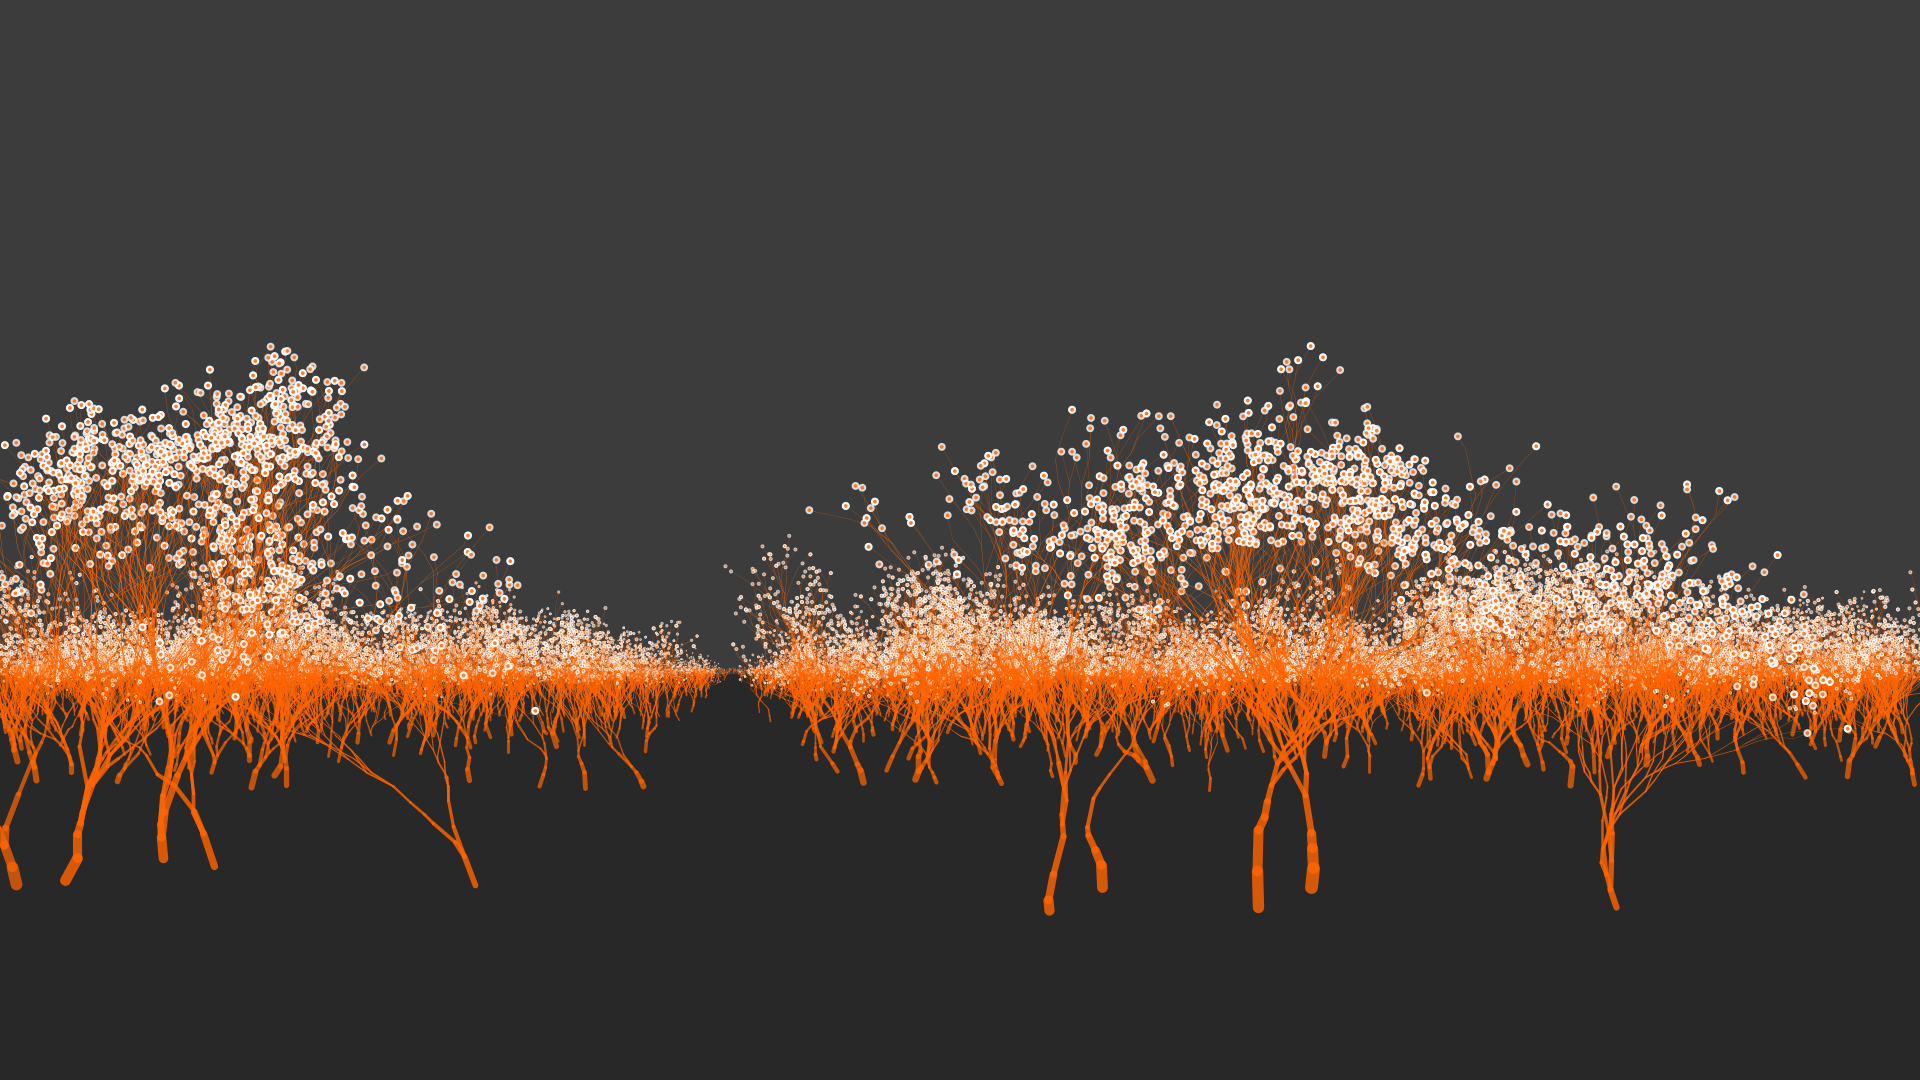
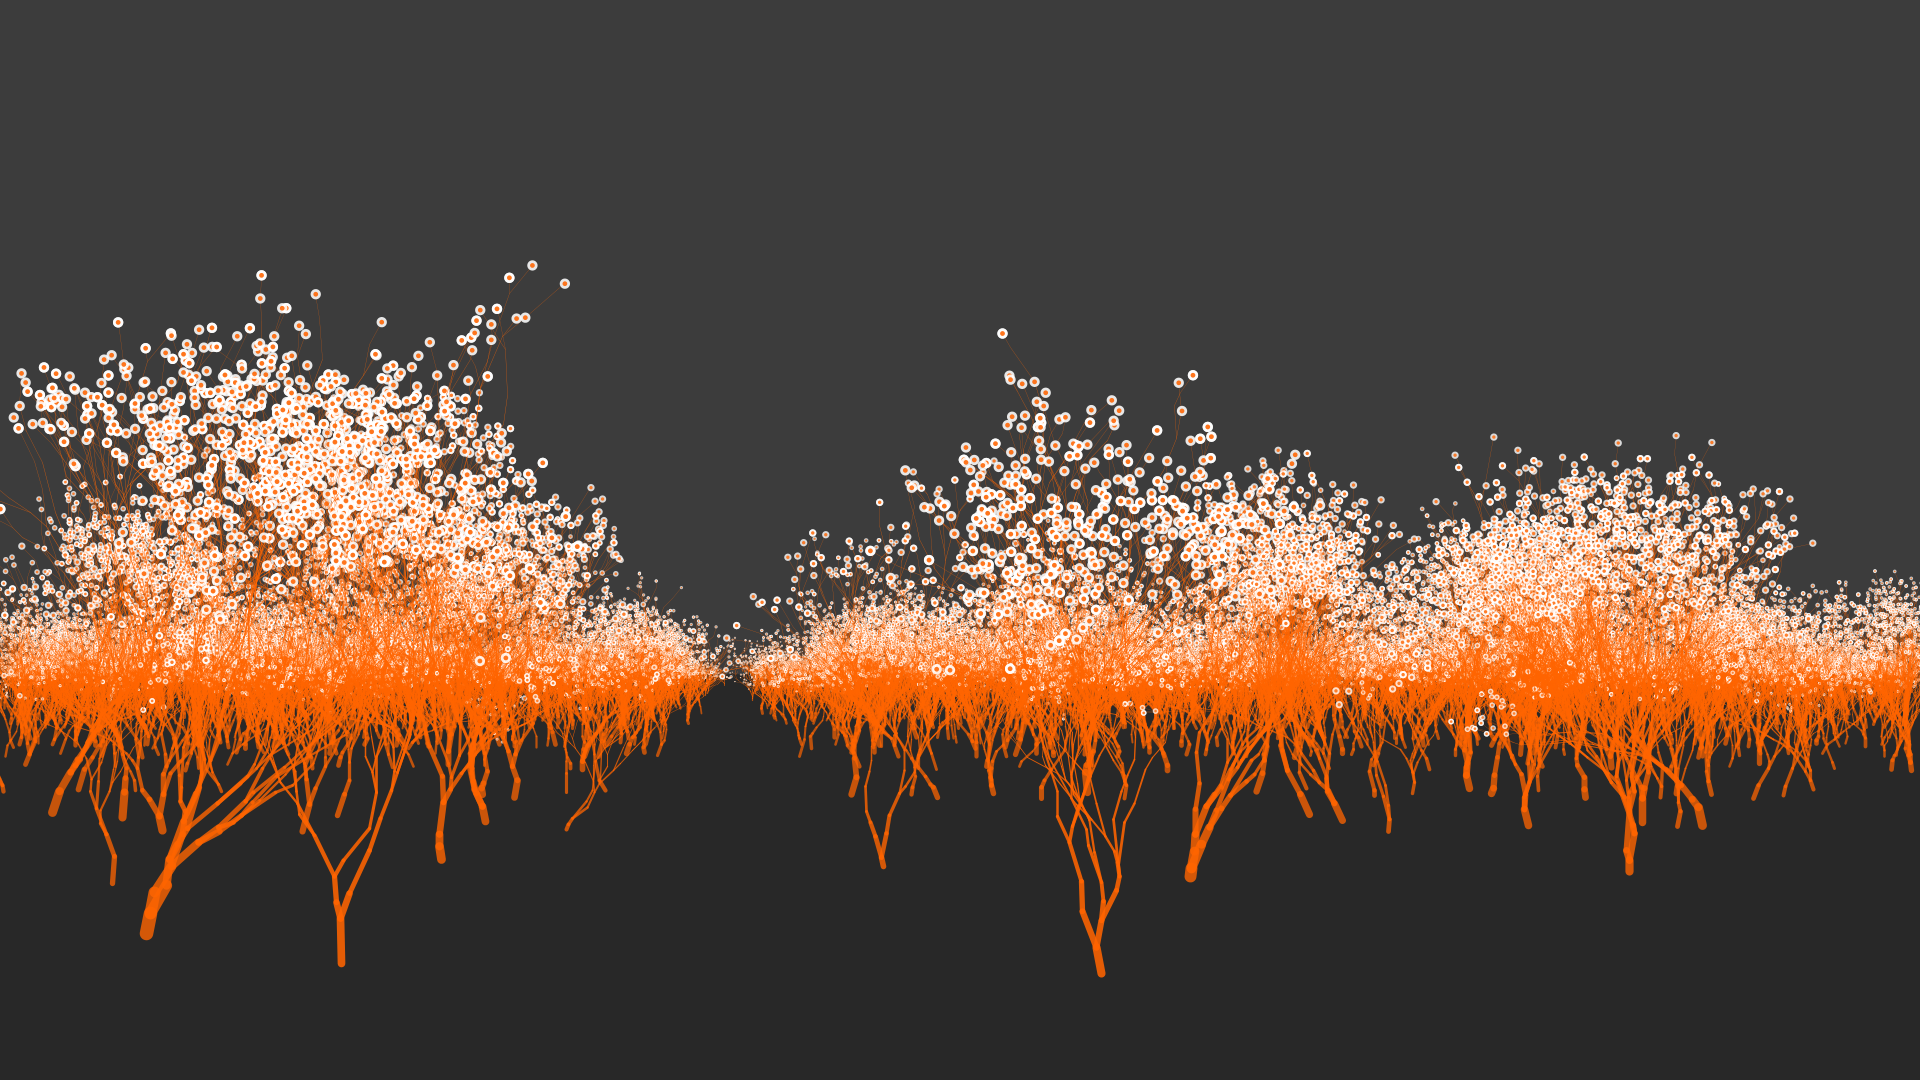
minor tweaks

Changed region(s): [[0.0, 0.275, 1.0, 0.8861]]

diff --git a/tree/src/main/java/team/dedica/logo/tree/ForestPlanter.java b/tree/src/main/java/team/dedica/logo/tree/ForestPlanter.java
@@ -24,7 +24,7 @@ public class ForestPlanter {
         List<TreeSegment> seeds = new ArrayList<>();
         final float limit = height * (1 - MAX_FOREST_HEIGHT_FACTOR);
         int step = 2;
-        for (int line = (int) limit; line <= height; line += step) {
+        for (int line = (int) limit; line < height; line += step) {
 
             float chance = ((height - line) / limit);
             float test = (random(0f, 1f));
@@ -33,8 +33,8 @@ public class ForestPlanter {
 
             //scale
             float scaleRatio = (line - limit) / (height - limit);
-            step = (int) (step * (1.41 + scaleRatio));
-            if (scaleRatio < 0.005) {
+            step = (int) (step * (1.32 + scaleRatio));
+            if (scaleRatio < 0.01) {
                 continue;
             }
 
@@ -54,9 +54,7 @@ public class ForestPlanter {
 
                 float halfStep = (float) (step / 2.5);
                 float y = line + random(-halfStep, halfStep);
-                if (y >= height) {
-                    continue;
-                }
+
                 seeds.add(new TreeSegment(new PVector(seedX, y), scaleRatio));
             }
         }
